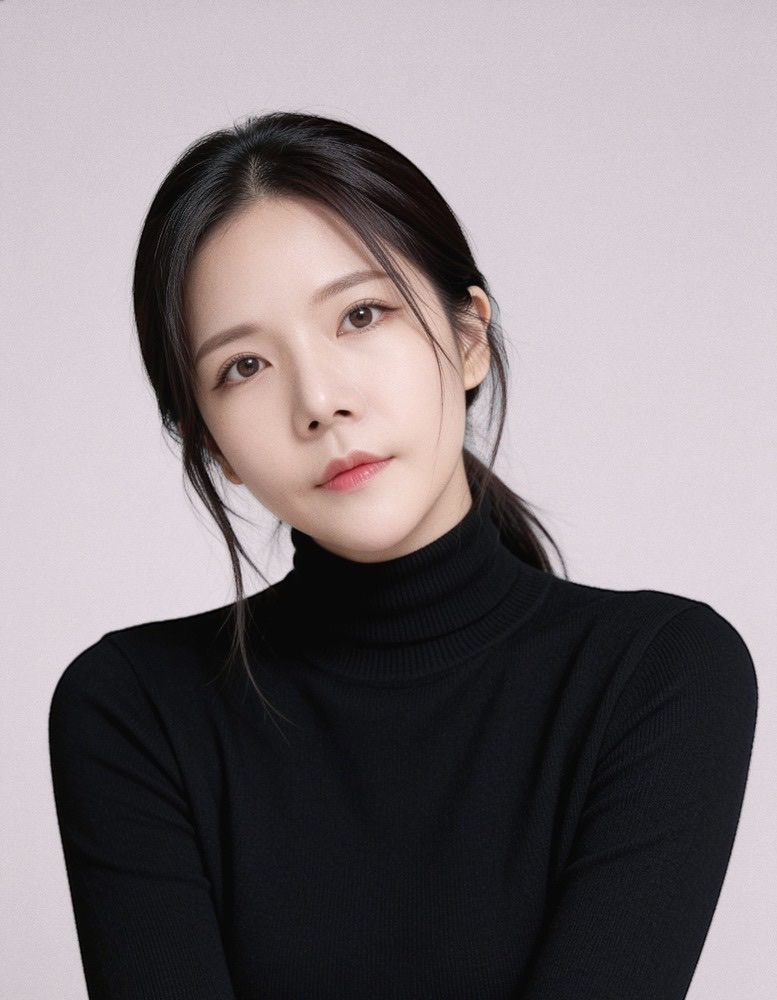
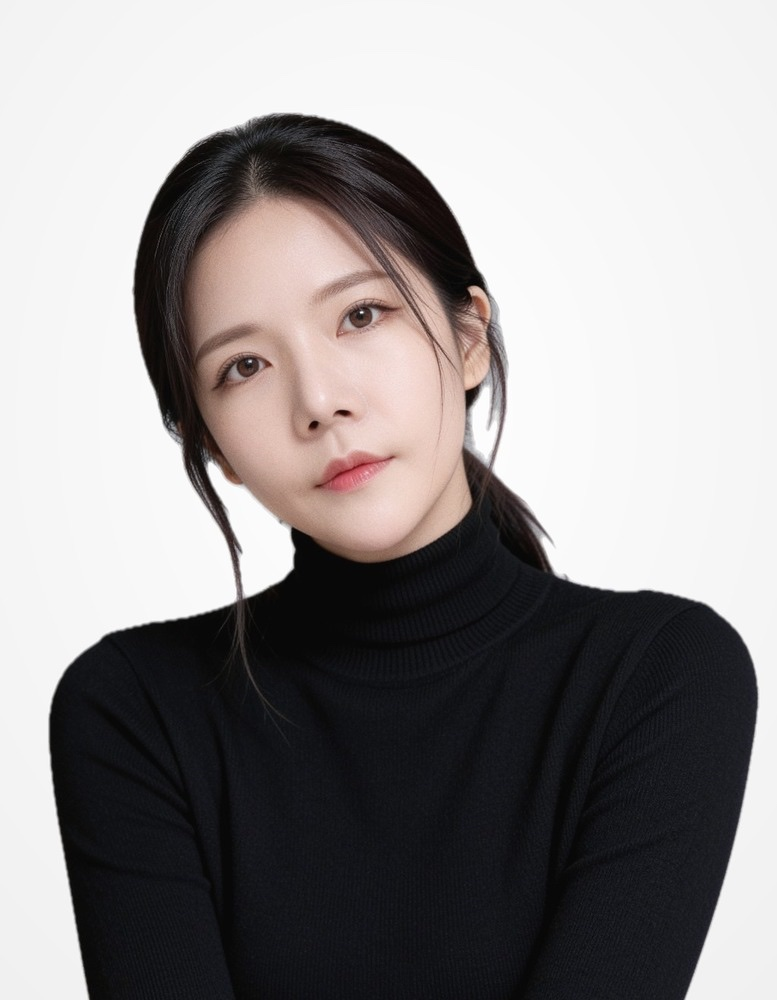
대표소개: 두 사진 흰 배경, 결제기업 표기, 이름 가운데 글자 O 처리

diff --git a/src/app/ceo/page.tsx b/src/app/ceo/page.tsx
@@ -5,14 +5,14 @@ import { OpenModalButton } from "@/components/OpenModalButton";
 import { fontDisplay, fontSerif } from "@/lib/style";
 import { SITE_NAME, SITE_URL } from "@/lib/seo";
 
-const TITLE = "대표 버틀러 이강, 최소연 소개";
-const DESC = "웨딩버틀러를 함께 운영하는 대표 버틀러 이강과 최소연을 소개합니다. 약속을 먼저 지키고 예식 1시간 전에 도착합니다.";
+const TITLE = "대표 버틀러 이O, 최O연 소개";
+const DESC = "웨딩버틀러를 함께 운영하는 대표 버틀러 이O와 최O연을 소개합니다. 약속을 먼저 지키고 예식 1시간 전에 도착합니다.";
 
 export const metadata: Metadata = {
   title: TITLE,
   description: DESC,
   alternates: { canonical: "/ceo" },
-  openGraph: { type: "profile", locale: "ko_KR", url: `${SITE_URL}/ceo`, siteName: SITE_NAME, title: TITLE, description: DESC, images: [{ url: "/img/ceo.jpg", width: 777, height: 1000, alt: "웨딩버틀러 대표 버틀러 이강" }] },
+  openGraph: { type: "profile", locale: "ko_KR", url: `${SITE_URL}/ceo`, siteName: SITE_NAME, title: TITLE, description: DESC, images: [{ url: "/img/ceo.jpg", width: 777, height: 1000, alt: "웨딩버틀러 대표 버틀러 이O" }] },
 };
 
 interface Person { name: string; role: string; photo: string; greeting: string; motto: string; facts: string[] }
@@ -22,8 +22,8 @@ interface Person { name: string; role: string; photo: string; greeting: string; 
 const COMMON = ["예식 1시간 전 도착", "2인 1조 교차 검수", "접수부터 전달까지 카메라 기록", "인계확인서 서명"];
 
 const PEOPLE: Person[] = [
-  { name: "이강", role: "대표 버틀러", photo: "/img/ceo.jpg", motto: "약속은 지킬 수 있을 때만 하고, 한 번 하면 반드시 지킵니다.", greeting: "결제 기업에 다니며 축의대행을 3년째 해 왔습니다. 한 번 한 약속은 시간까지 지킵니다.", facts: ["결제 기업 재직 중", "축의대행 3년", "예약과 정산 시스템 직접 운영", ...COMMON] },
-  { name: "최소연", role: "대표 버틀러", photo: "/img/ceo2.jpg", motto: "늦지 않는 것이 고객께 드리는 가장 기본적인 예의입니다.", greeting: "대기업에 다니며 축의대행을 4년째 해 왔습니다. 예식 날에는 약속한 시간보다 먼저 와 있습니다.", facts: ["대기업 재직 중", "축의대행 4년", ...COMMON] },
+  { name: "이O", role: "대표 버틀러", photo: "/img/ceo.jpg", motto: "약속은 지킬 수 있을 때만 하고, 한 번 하면 반드시 지킵니다.", greeting: "결제기업에 다니며 축의대행을 3년째 해 왔습니다. 한 번 한 약속은 시간까지 지킵니다.", facts: ["결제기업 재직 중", "축의대행 3년", "예약과 정산 시스템 직접 운영", ...COMMON] },
+  { name: "최O연", role: "대표 버틀러", photo: "/img/ceo2.jpg", motto: "늦지 않는 것이 고객께 드리는 가장 기본적인 예의입니다.", greeting: "대기업에 다니며 축의대행을 4년째 해 왔습니다. 예식 날에는 약속한 시간보다 먼저 와 있습니다.", facts: ["대기업 재직 중", "축의대행 4년", ...COMMON] },
 ];
 
 export default function CeoPage() {

diff --git a/src/app/page.tsx b/src/app/page.tsx
@@ -309,7 +309,7 @@ export default function HomePage() {
           <p style={{ fontFamily: fontDisplay, fontSize: 14, letterSpacing: "0.4em", color: "#A9647E", margin: "0 0 16px" }}>REPRESENTATIVE BUTLER</p>
           <h2 style={{ fontFamily: fontSerif, fontSize: "clamp(22px,4.6vw,30px)", fontWeight: 400, margin: "0 0 22px", letterSpacing: "-0.025em", lineHeight: 1.5 }}>약속을 가장 먼저 지키는<br />두 대표 버틀러가 직접 운영합니다</h2>
           <div style={{ display: "flex", justifyContent: "center", gap: 16, margin: "0 0 20px" }}>
-            {[["/img/ceo.jpg", "대표 버틀러 이강"], ["/img/ceo2.jpg", "대표 버틀러 최소연"]].map(([src, alt]) => (
+            {[["/img/ceo.jpg", "대표 버틀러 이O"], ["/img/ceo2.jpg", "대표 버틀러 최O연"]].map(([src, alt]) => (
               // eslint-disable-next-line @next/next/no-img-element
               <img key={src} src={src} alt={alt} width={92} height={92} loading="lazy" style={{ width: 92, height: 92, borderRadius: "50%", objectFit: "cover", objectPosition: "50% 22%", border: "2px solid #FFFFFF" }} />
             ))}
